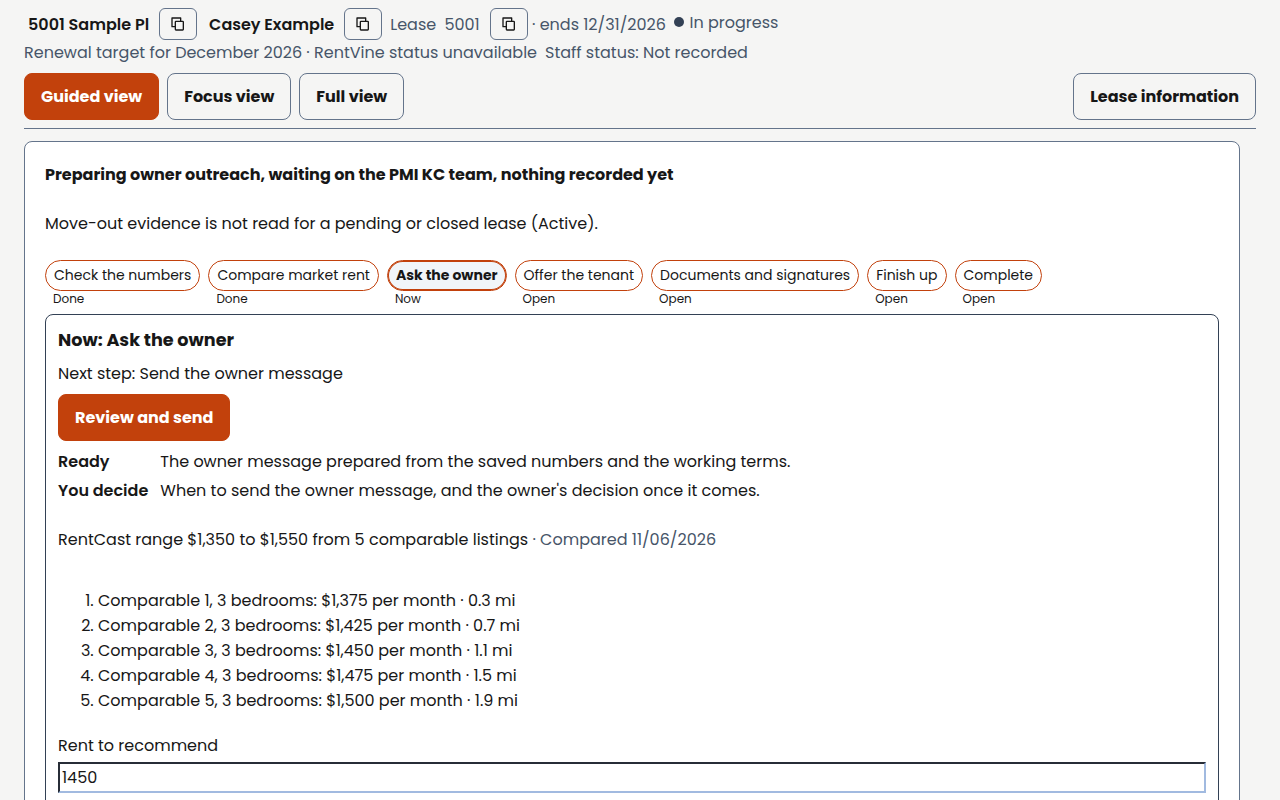
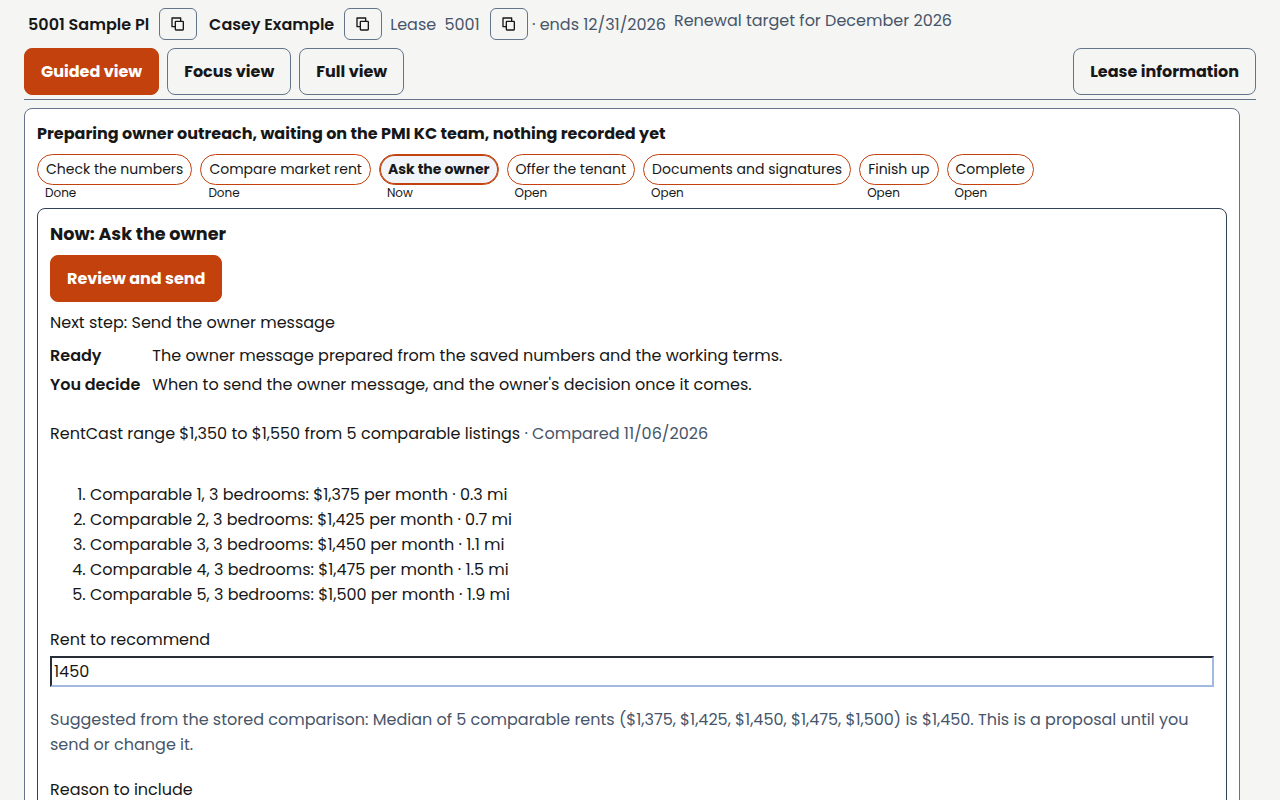
Refresh all Help scenes from the corrected synthetic interface

Changed region(s): [[0.0, 0.0, 0.9375, 1.0], [0.8438, 0.0625, 0.9688, 0.1875], [0.9375, 0.8125, 0.9688, 0.8438]]

diff --git a/docs/evidence/renewal-one-path-ux-review-2026-11-06.md b/docs/evidence/renewal-one-path-ux-review-2026-11-06.md
@@ -27,7 +27,8 @@ Human verdict: NOT RUN, no human observer.
   applicable path. It was included as `01152fcd`; its original branch and commits remain intact.
 - The original lane later added `120b4966`, waiting for the settled prepared Now card before
   framing its help picture. It was included as `87908f80`, followed by its four curated picture
-  updates `d76dc72e`, included as `9102ed63`. Final help capture is pending.
+  updates `d76dc72e`, included as `9102ed63`. All 27 current Help pictures were subsequently
+  recaptured from `fdaf9614`, with every recorded PNG hash checked before copying.
 - The remaining uncommitted generated-ID field lookup and its regression were inspected and integrated
   with complete-text recovery, legacy snapshot compatibility and cancellation for newer input.
   The original working file is untouched. The existing 20-second recovery window is preserved.
@@ -259,9 +260,19 @@ goals while retaining their original authority and meaning.
   production contact, including opening the production Renewals desk: left undone by hard limit.
   Synthetic stand-in outcomes do not prove a real provider, mailbox or customer result.
 - Automatic comparison from an automated browser or verification session: left undone by hard
-  limit. The reviewed setting stays off; L33 is UNVERIFIED. No test claims the forbidden action ran.
-- Identity, roles, security settings, Action Registry keys, budgets, guardrails and protected paths:
-  unchanged. auth:ensure was omitted because this task expressly forbids its real-provider probes.
+  limit. The one-path rehearsal's audit setting stays off; L33 is UNVERIFIED. Help and the existing
+  journey retain the webdriver/non-rehearsal fence. No test claims the forbidden action ran.
+- Identity, roles, security settings, Action Registry keys, budgets, permanent action/cost
+  guardrails and protected paths: unchanged. The local rehearsal's refusal boundary was
+  strengthened. auth:ensure was omitted because this task forbids its real-provider probes.
+- Removing a control, section, view, filter, saved view, collection, old link, review or
+  confirmation: left undone by hard limit. Focus/Full and their exact review gates are preserved.
+- Production release assurance: read-only code only, with its landmarks and independent oracle
+  updated together. No live assurance run, mutation or bound relaxation was performed.
+- Customer values and raw audit screenshots in Git, protected-path pushes, broad staging,
+  force pushes, rewritten history, tags and branch deletion: left undone by hard limit.
+  The only committed pictures are curated synthetic product Help assets. Staging names files
+  explicitly on the branch cut from fetched current main.
 - Real originals, legal/map approval, unsettled client answers, signing and human judgment: no
   verdict invented. They retain their exact independent holds. Staff walkthrough remains NOT RUN.
 - Physical phone and assistive-technology use by a person: UNVERIFIED. Chromium emulation,
@@ -324,6 +335,25 @@ goals while retaining their original authority and meaning.
   Typecheck at 3 GB, 832 Help labels, 3,147 Help strings, copy voice and all 273 active document
   paths passed. The tested native files matched the Windows source hashes for all 16 changed
   paths before this evidence-only update.
-- Final-source browser rewalk, help capture/control checks, the existing isolated journey,
-  `bash scripts/verify.sh`, report validation, exact-head CI and final cleanup are pending.
-  No final gate pass or acceptance is implied by the focused results above.
+- No final gate pass or acceptance is implied by the focused results above. Subsequent
+  committed-source checkpoints and their remaining qualification follow.
+- The later layout-focused run passed 62 tests across six files, including Full/Focus
+  preservation and stricter canary/oracle failure cases. Typecheck at 3 GB, 832 Help controls,
+  3,147 Help strings, copy voice and 273 active document paths passed.
+- Committed-source checkpoint `351ace2c` passed 16 assisted and 16 standard step/width/theme
+  measurements. Full long-program primary bounds were 775/777 px on desktop and 1,579.3/1,586.3
+  px on phone for Numbers/program contact, in both themes. All five fresh default entries passed
+  the local canary and independent actual-DOM oracle with zero mismatches. Phone menus stayed
+  within the viewport; Escape returned to their triggers and Tab reached the retained utilities.
+  Controller/wrapper exited zero, 18 guarded Node PIDs were recorded, only two public npm
+  requests were refused, and the browser/helper/emulators and temporary worktree were removed.
+- The first all-scene Help capture on `351ace2c` captured 27/27 and exited zero. Visual review
+  found UX-025's incomplete ordinary-flow fixture, so those pixels are superseded. Its fixture
+  correction passed all 32 existing rehearsal-safety checks plus copy voice and document paths.
+- Fresh Help capture `20261106T221921Z-fdaf9614` captured all 27 scenes with zero uncaptured,
+  source and served SHA `fdaf9614cfcaf4913271b684791486f3051db28d`, and no overlay. All 27
+  PNG hashes matched the run record; 17 files changed and ten were byte-identical. The corrected
+  prepared Guided image has no missing-status/move-out warning. Root inspected all 27 in contact
+  sheets and the key changed screens at full size. Wrapper exited zero and emulators stopped;
+  22 guarded Node PIDs and only two refused public npm requests were recorded. Final guide walk,
+  Help control browser check, existing journey, canonical verify and exact-head CI remain pending.
